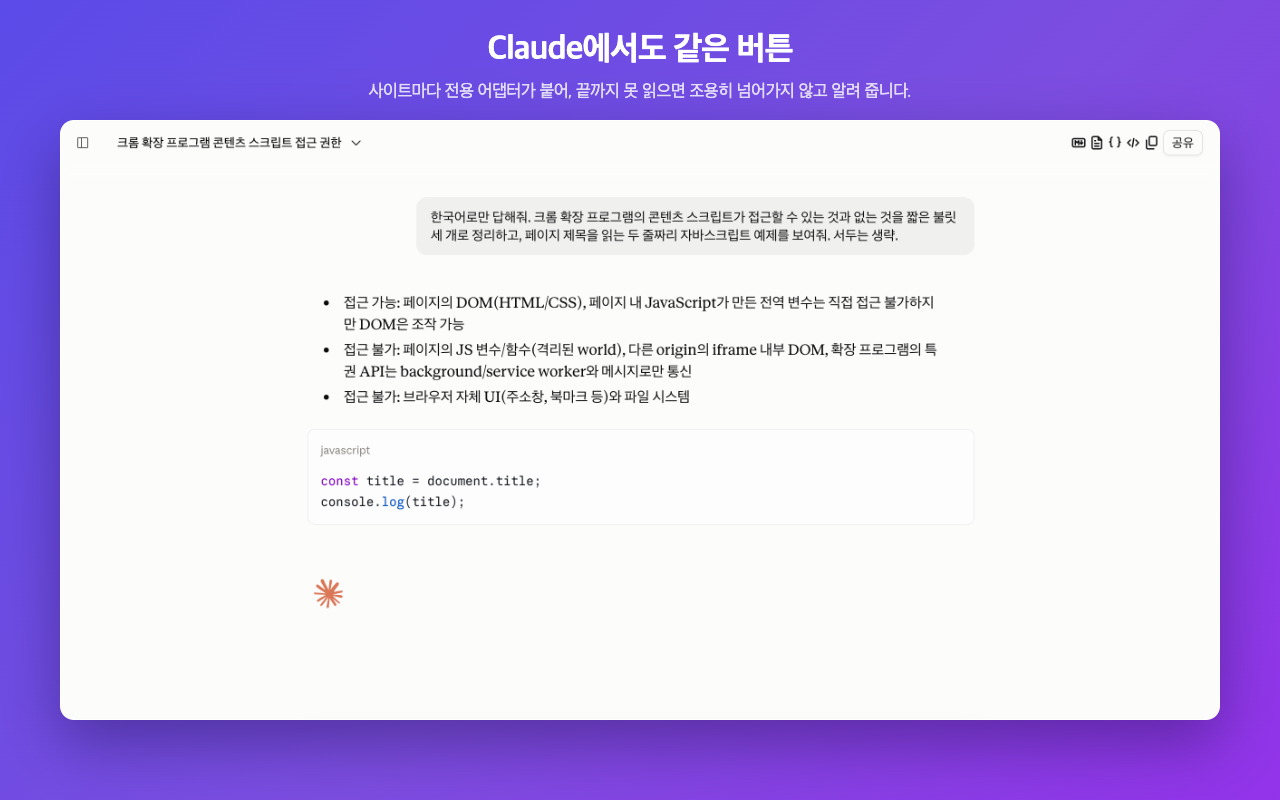
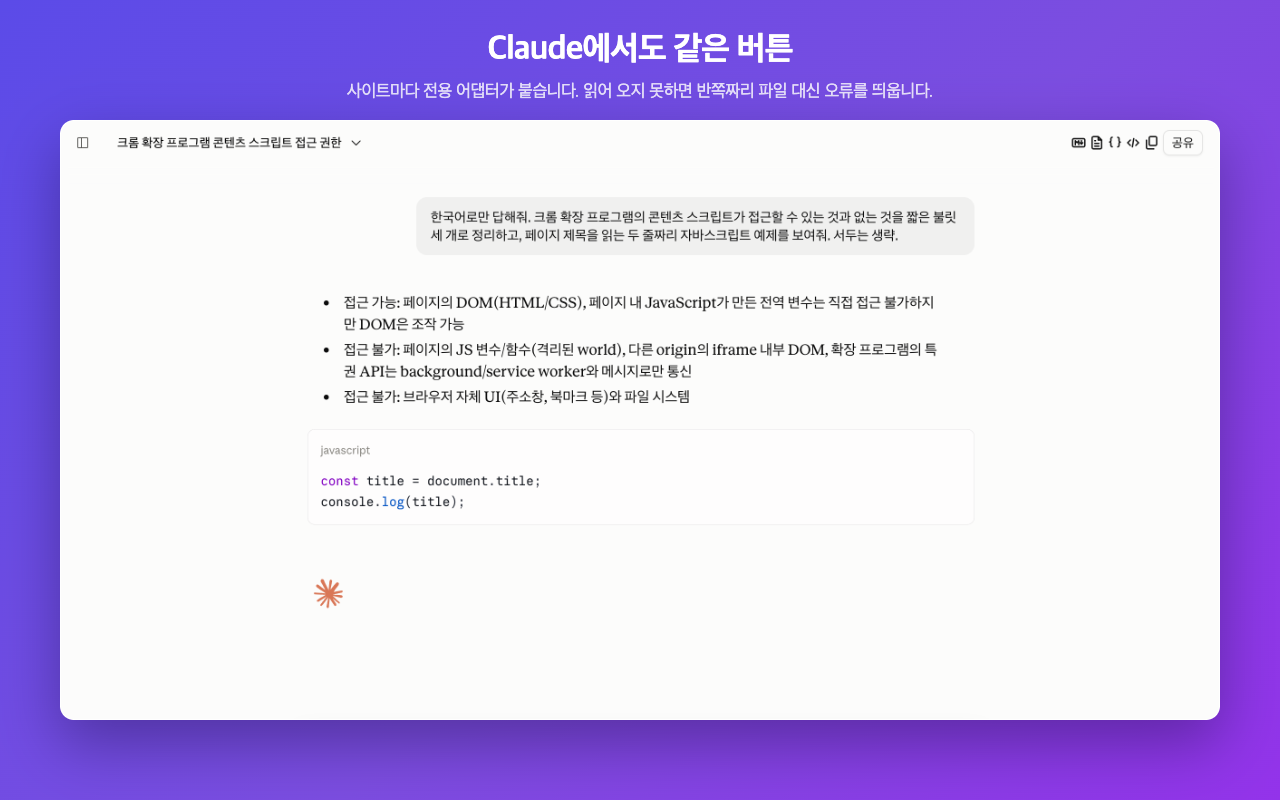
[DOCS] Apply PR #65 review: retire overclaims, recapture the PDF shot
Review panel (Claude review skill, agy, Codex) landed five in-scope findings.

- The new "Nothing silently truncated" bullet promised what the loaders
  explicitly disclaim: src/adapters/gemini/index.ts:267 records that a batch
  slower than the dwell still truncates silently, a hazard the ChatGPT sidebar
  loaders share. Reworded to what the code guarantees — fails loud, not short —
  in English, Korean, and the shot-3 caption.
- The fidelity screenshot displayed both PDF defects this PR files: the code
  font's ligature rendering => as ⇒, and an inline-code run keeping its
  backticks. Re-captured both locales from a Python/shell conversation that
  exercises neither, verified against the PDF text layer. The doc says plainly
  that this hides rather than fixes the defects, and backlog.md carries the
  re-capture that is due once they land.
- The single-purpose statement attributed a history-page bulk track to ChatGPT;
  /recents is Claude-only (the ChatGPT adapter registers no recents members).
- package.json description and AGENTS.md still carried the "ChatGPT first" and
  "bulk export is ChatGPT-only" claims this PR exists to retire.
- The doc overstated en/ko screenshot parity: separate captures, different
  conversation counts.

Not fixed: Claude's 공유 control still ships in the English shot 3. It comes
from navigator.language, so only launching the capture browser with
--lang=en-US moves it, and that is a user-scoped MCP config change. Filed.

Changed region(s): [[0.2812, 0.0938, 0.7188, 0.125]]

diff --git a/docs/store-listing.md b/docs/store-listing.md
@@ -37,8 +37,8 @@ Key points:
   Your conversations never leave your browser.
 • Least privilege. It runs only on ChatGPT (chatgpt.com), Claude (claude.ai) and
   Gemini (gemini.google.com), and requests only the minimum permissions needed.
-• Nothing silently truncated. If a conversation or a conversation list cannot be read in
-  full, the extension tells you instead of saving a short file.
+• Fails loud, not short. When an export cannot be read, the extension shows an error
+  instead of downloading a half-empty file.
 • Choose your toolbar. The extension popup lets you show or hide each export format icon
   and the bulk-export icon.
 • English and Korean UI follows your browser language.
@@ -69,8 +69,8 @@ ChatGPT와 Claude는 사이드바에서도, 프로젝트 대화 목록에서도 
 • 전부 기기 안에서 처리합니다. 확장 프로그램은 어디로도 요청을 보내지 않습니다.
 • 권한은 꼭 필요한 만큼만. ChatGPT(chatgpt.com), Claude(claude.ai),
   Gemini(gemini.google.com) 세 곳에서만 동작합니다.
-• 조용히 잘린 파일은 만들지 않습니다. 대화나 목록을 끝까지 읽지 못하면 그 자리에서
-  알려 드립니다.
+• 문제가 생기면 알려 드립니다. 대화를 읽어 오지 못하면 반쪽짜리 파일을 내려받는 대신
+  오류를 띄웁니다.
 • 툴바가 번잡하면 팝업에서 필요 없는 형식 아이콘과 일괄 내보내기 아이콘을 꺼 두세요.
 • 브라우저 언어에 맞춰 한국어나 영어로 나옵니다.
 
@@ -83,11 +83,19 @@ ChatGPT와 Claude는 사이드바에서도, 프로젝트 대화 목록에서도 
 ```
 Prompt Vault has one purpose: to export the user's own AI chat conversations to local
 Markdown, PDF, JSON, or HTML files. It supports ChatGPT, Claude and Gemini. The user exports the
-open conversation or, on ChatGPT and Claude, selects a set of conversations from the
-sidebar, a project list, or the history page through the optional bulk action. The
-extension reads conversation content only in response to that user action and only to
-create local downloads.
+open conversation or, on ChatGPT and Claude, selects a set of conversations from the sidebar
+or a project list — and on Claude also from the full history page — through the optional bulk
+action. The extension reads conversation content only in response to that user action and
+only to create local downloads.
 ```
+
+**Check every quality claim against the repo's own caveats before it ships.** Listing copy and
+screenshot captions are product claims, and the code records where it cannot keep them: adapter
+doc comments (`src/adapters/gemini/index.ts` on the residual silent-truncation hazard) and open
+`backlog.md` items. This cycle produced both failure modes in one pass — a "nothing silently
+truncated" bullet the loaders explicitly disclaim, and a fidelity screenshot displaying two
+filed rendering defects. Grep the backlog and the adapter comments for the subject of any
+absolute claim; prefer "fails loud" over "never fails".
 
 ## Privacy and permission declarations
 
@@ -127,7 +135,7 @@ Data-use declarations:
 |-------|-------------|-------------------|
 | Store icon | 128×128 PNG | Ready: `public/icons/icon128.png` |
 | Screenshots (global / English listing) | 1280×800 PNG/JPEG; 1–5 images; at least one required | Ready: `assets/store/screenshot-0{1..5}-*.png` (captured 2026-08-11 against v1.10.1; 1.10.2 changed listing copy only, no UI) |
-| Screenshots (Korean listing) | same requirement, uploaded under the `ko` locale | Ready: `assets/store/ko/screenshot-0{1..5}-*.png` — same five views, Korean UI and Korean conversation content |
+| Screenshots (Korean listing) | same requirement, uploaded under the `ko` locale | Ready: `assets/store/ko/screenshot-0{1..5}-*.png` — the same five *views*, captured separately, so the content differs (Korean UI, Korean conversations, and a different selection count in shot 2) |
 | Small promotional tile | 440×280 PNG; required | Ready: `assets/store/small-promo-440x280.png`, rendered from the sibling `.svg` |
 | Marquee promotional tile | 1400×560 PNG; optional | Not prepared; omit for launch |
 
@@ -154,14 +162,21 @@ Shipped screenshot set (in listing order):
 
 1. `screenshot-01-chatgpt-toolbar` — ChatGPT conversation, MD/PDF/JSON/HTML/Bulk controls
    ringed in the conversation header.
-2. `screenshot-02-project-bulk-export` — the bulk panel over a ChatGPT project home with all
-   four conversations selected.
+2. `screenshot-02-project-bulk-export` — the bulk panel over a ChatGPT project home with every
+   conversation selected (four in the English capture, five in the Korean one, which was taken
+   after another demo conversation was added).
 3. `screenshot-03-claude-conversation` — the same toolbar on Claude, evidence for the
    multi-provider claim. Captioned "Same buttons on Claude", not "…and Gemini": no Gemini
    pixel is in frame, and a caption must not claim more than its own image shows.
 4. `screenshot-04-popup-settings` — the extension popup's format and bulk-icon toggles.
 5. `screenshot-05-exported-pdf` — a real exported PDF with mixed English/Korean prose and
-   code blocks, demonstrating selectable text and correctly rendered CJK glyphs.
+   code blocks, demonstrating selectable text and correctly rendered CJK glyphs. Its demo
+   conversation deliberately holds Python and shell only: the first capture used a JavaScript
+   answer and put both open PDF defects on display — the code font's ligature turned `=>` into
+   `⇒`, and an inline-code run kept its backticks (both filed in `backlog.md`). Choosing content
+   that avoids them keeps the caption true of the image, but it hides a defect that is still
+   there, so **re-capture this shot from a conversation containing `=>` once those two items
+   land** — that is the version worth shipping.
 
 **Capturing in English on a Korean machine.** macOS Chrome takes its UI language from the OS —
 there is no "display Chrome in this language" control in `chrome://settings/languages` — so
@@ -177,7 +192,8 @@ moves cover most of the frame without touching the user's own Chrome or any acco
 
 The Korean set needs none of that — it is what this machine produces untouched. Capture it
 *before* switching anything, or restore both settings first: the header order, and `dist/`'s own
-`ko` messages file. The two sets show the same five views, so a change to one is a change to both.
+`ko` messages file. The two sets cover the same five views, so a change to what a view *shows* is a change to
+both — but they are separate captures, and their conversation content and counts differ.
 
 **What that does NOT cover, measured 2026-08-11:** strings Claude renders from
 `navigator.language` stay Korean regardless of the header — in the shipped

diff --git a/backlog.md b/backlog.md
@@ -30,6 +30,20 @@ continuation line is invisible to it and the blocked item is offered as actionab
 
 ## Review Backlog
 
+### Store screenshot follow-ups (PR #65 review, 2026-08-11)
+
+- [ ] *(blocked by: needs `--lang=en-US` on the capture browser, which is a user-scoped Playwright MCP config change — propose it, do not assume it)*
+      [FIX] The English-listing `screenshot-03-claude-conversation.png` still shows Claude's
+      native Share control as `공유`. Claude renders that string from `navigator.language`, which
+      follows the OS UI language, so neither the `Accept-Language` reorder nor an account setting
+      moves it — see the capture notes in `docs/store-listing.md`. Re-capture once the browser can
+      be launched in English, or drop shot 3 from the English set rather than ship mixed-language
+      product chrome.
+- [ ] [FIX] Re-capture `screenshot-05-exported-pdf.png` (both locales) from a conversation that
+      contains `=>` and an inline-code run, once the two PDF rendering items below are fixed. The
+      shipped capture uses Python/shell only, which keeps the caption honest but means the shot no
+      longer exercises the two cases most likely to regress.
+
 ### PDF rendering artifacts seen while capturing store screenshots (2026-08-11)
 
 > Both were observed in a real export (`chatgpt-…-Python-and-bash-snippets-20260811.pdf`) made

diff --git a/AGENTS.md b/AGENTS.md
@@ -5,9 +5,9 @@
 # prompt-vault Agent Rules
 
 Browser extension (Manifest V3) that backs up AI chat conversations to local files
-(Markdown / PDF). Supports ChatGPT, Claude and Gemini via per-site adapters; bulk and
-project export are ChatGPT-only so far. All processing is local — conversation data never
-leaves the browser.
+(Markdown / PDF / JSON / HTML). Supports ChatGPT, Claude and Gemini via per-site adapters;
+bulk and project export work on ChatGPT and Claude, Gemini is single-conversation only.
+All processing is local — conversation data never leaves the browser.
 
 ## Docs Index (read on demand)
 
